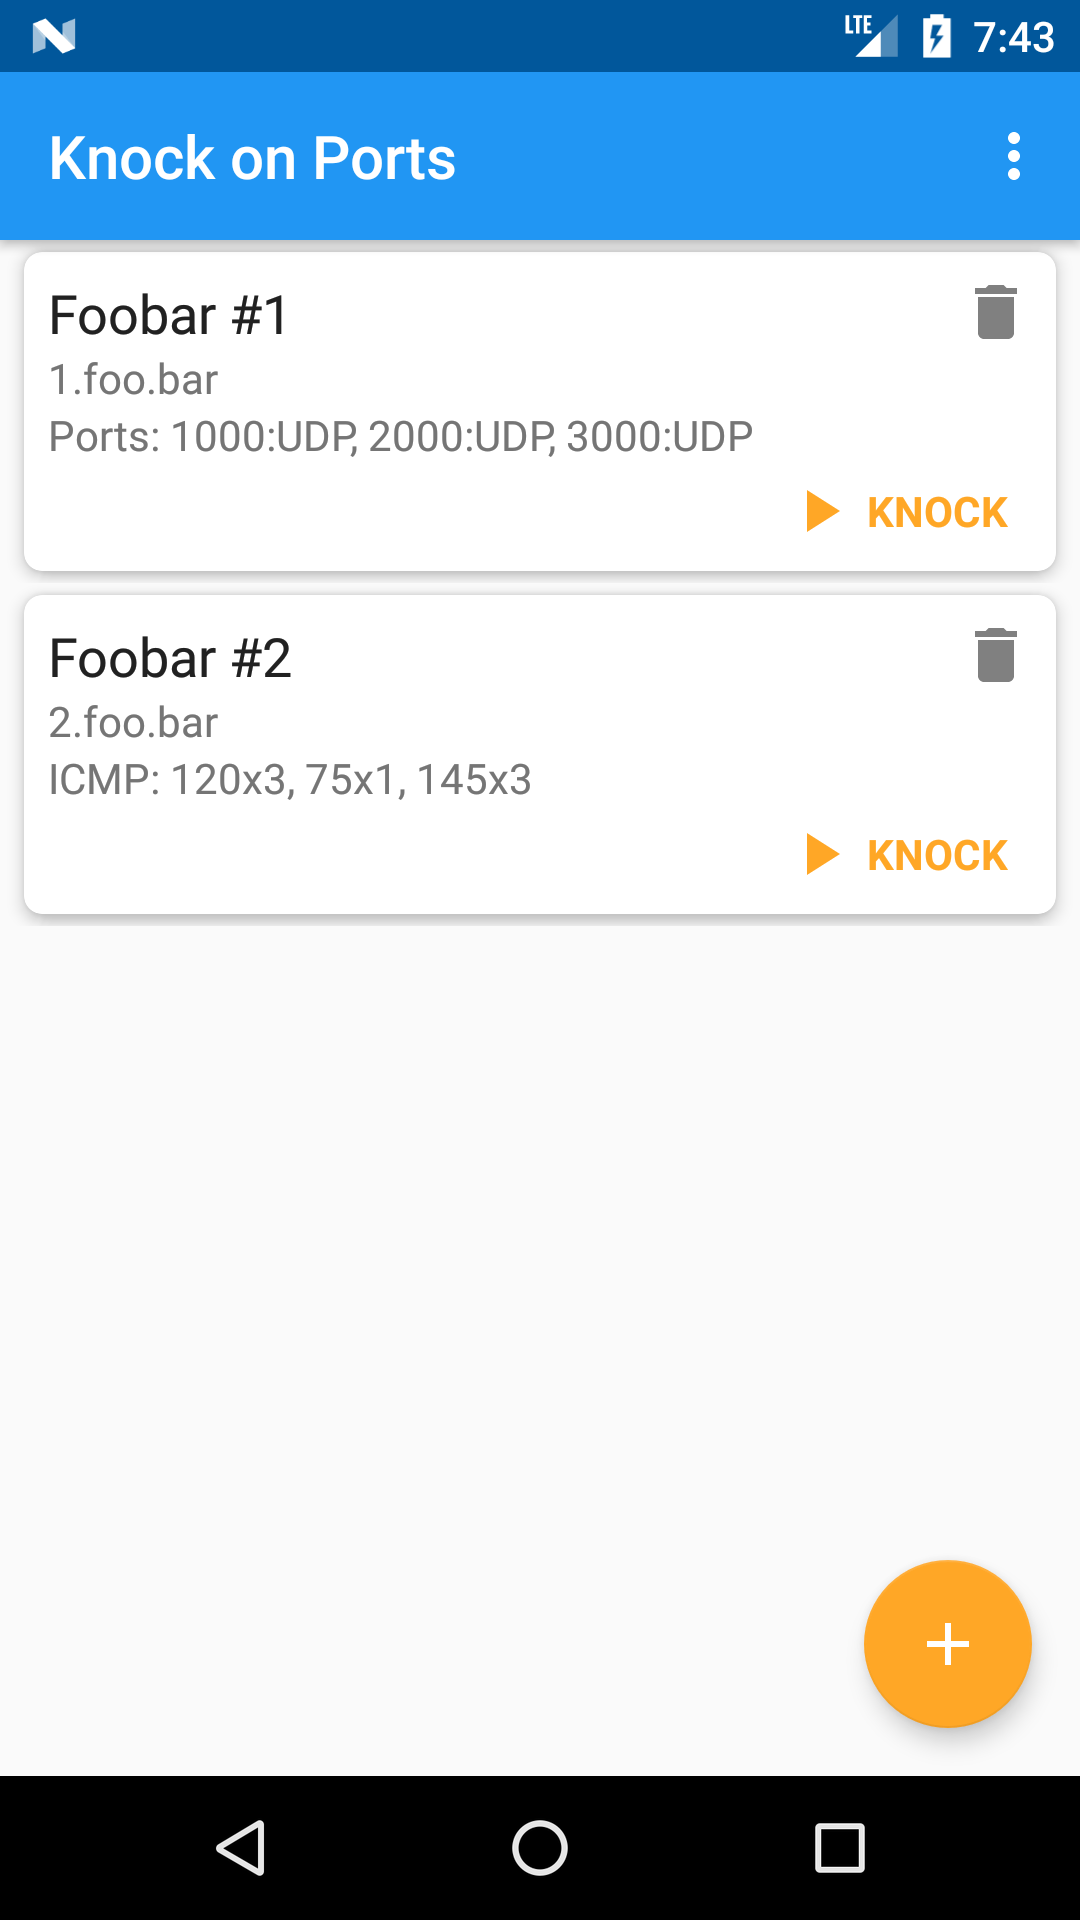
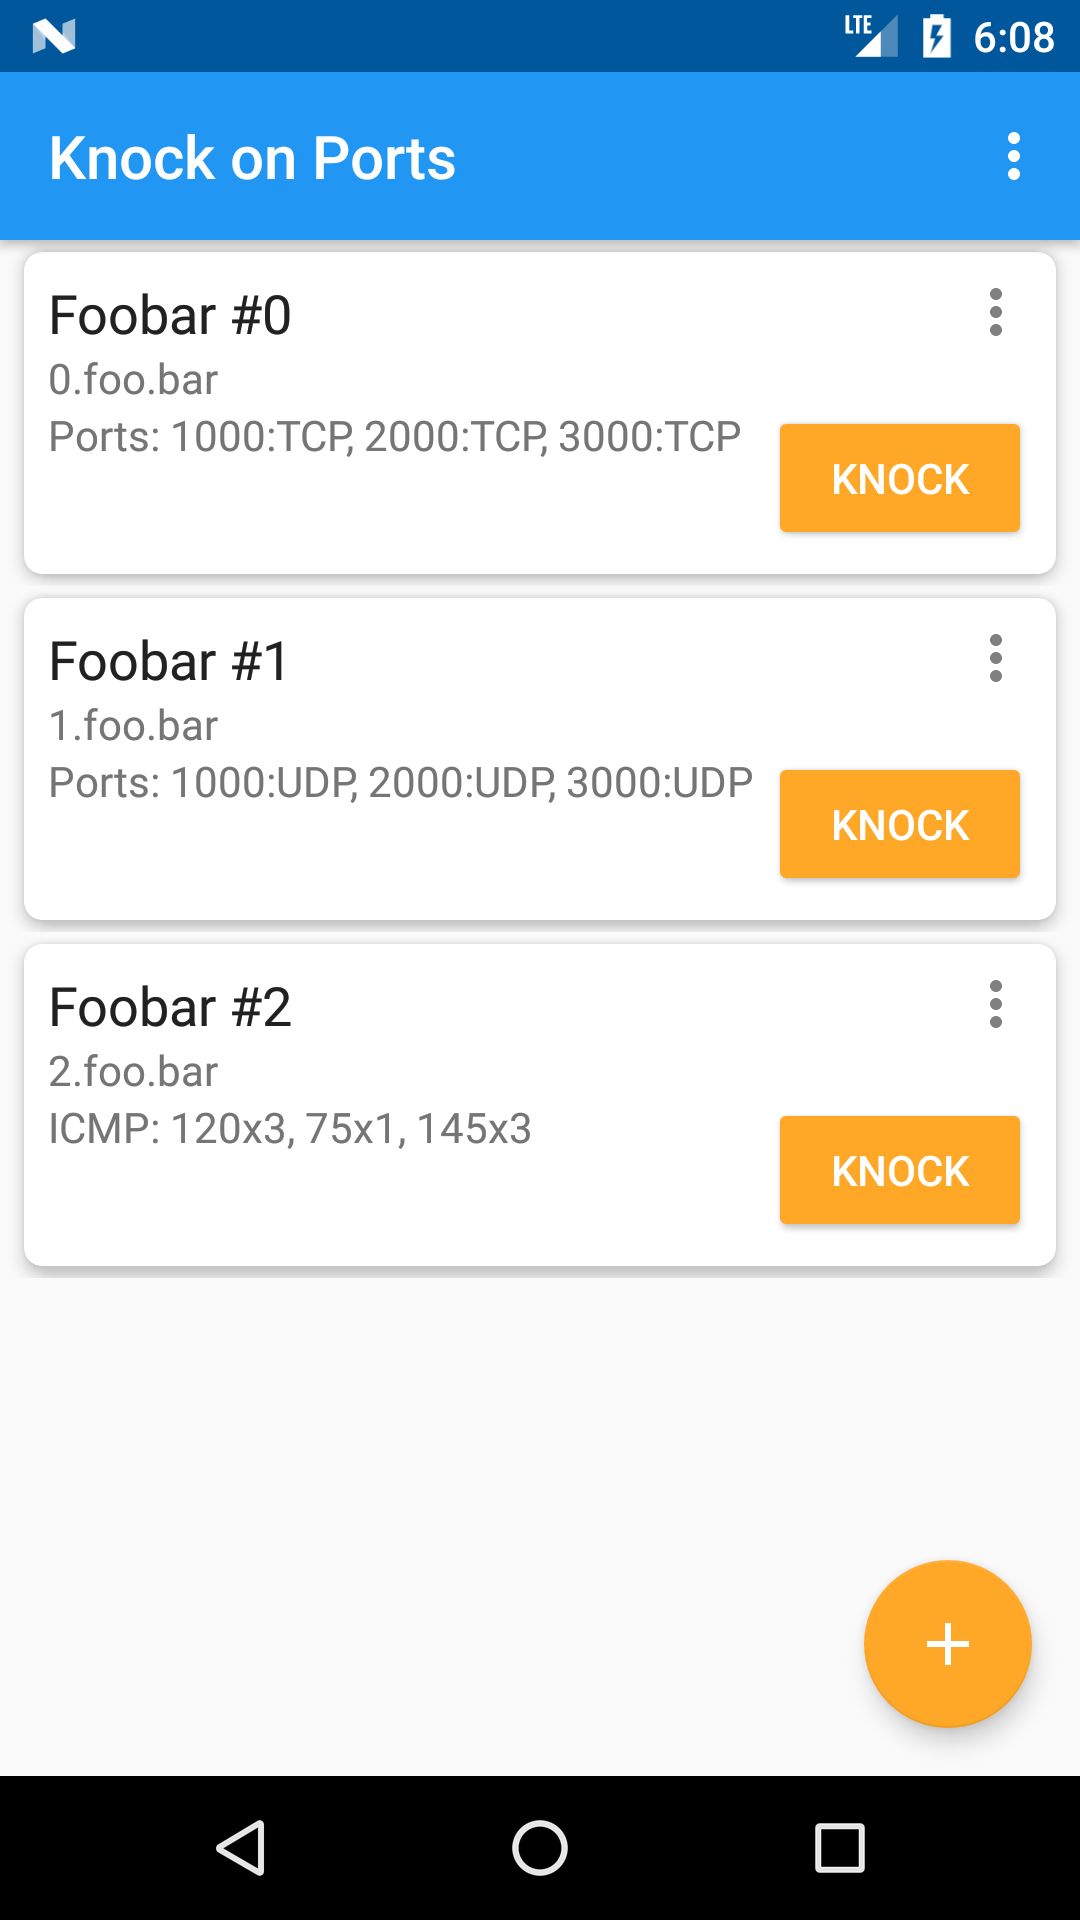
1.0.8

diff --git a/app/src/main/java/me/impa/knockonports/viewadapter/SequenceAdapter.kt b/app/src/main/java/me/impa/knockonports/viewadapter/SequenceAdapter.kt
@@ -25,6 +25,7 @@ import android.content.Context
 import android.view.LayoutInflater
 import android.view.View
 import android.view.ViewGroup
+import android.widget.PopupMenu
 import kotlinx.android.synthetic.main.sequence_element.view.*
 import me.impa.knockonports.R
 import me.impa.knockonports.data.KnockType
@@ -66,10 +67,29 @@ class SequenceAdapter(val context: Context): androidx.recyclerview.widget.Recycl
         } else {
             sequence.name
         }
-        holder.deleteIcon.setOnClickListener {
-            onDelete?.invoke(sequence)
+        holder.moreIcon.setOnClickListener {
+            var popupMenu = PopupMenu(context, holder.moreIcon)
+            popupMenu.inflate(R.menu.menu_sequence)
+            popupMenu.setOnMenuItemClickListener { item ->
+                when(item.itemId) {
+                    R.id.action_menu_knock -> {
+                        onKnock?.invoke(sequence)
+                        true
+                    }
+                    R.id.action_menu_delete -> {
+                        onDelete?.invoke(sequence)
+                        true
+                    }
+                    R.id.action_menu_edit -> {
+                        onClick?.invoke(sequence)
+                        true
+                    }
+                    else -> false
+                }
+            }
+            popupMenu.show()
         }
-        holder.knockWrap.setOnClickListener {
+        holder.knockButton.setOnClickListener {
             onKnock?.invoke(sequence)
         }
         holder.textHost.text = if (sequence.host.isNullOrBlank()) {
@@ -102,10 +122,10 @@ class SequenceAdapter(val context: Context): androidx.recyclerview.widget.Recycl
 
     class ViewHolder(val view: View) : androidx.recyclerview.widget.RecyclerView.ViewHolder(view) {
         val sequenceName = view.sequence_name!!
-        val deleteIcon = view.delete_icon!!
+        val moreIcon = view.more_icon!!
         val textHost = view.text_host!!
         val textPorts = view.text_ports!!
-        val knockWrap = view.knock_wrap!!
+        val knockButton = view.knock_button!!
     }
 
 }

diff --git a/app/src/main/java/me/impa/knockonports/service/Knocker.kt b/app/src/main/java/me/impa/knockonports/service/Knocker.kt
@@ -85,22 +85,10 @@ class Knocker(val context: Context, private val sequence: Sequence): AnkoLogger 
                     udpSocket?.send(DatagramPacket(udpContent, udpContent.size, address, it.value!!))
                 } else {
                     debug { "Knock TCP ${it.value}" }
-                    val socket = Socket()
                     try {
-                        socket.tcpNoDelay = true
-                        socket.keepAlive = false
-                        var timeout = sequence.timeout ?: _defaultTimeout
-                        if (timeout <= 0)
-                            timeout = _defaultTimeout
-                        socket.soTimeout = timeout
-                        socket.setSoLinger(true, 0)
-                        socket.connect(InetSocketAddress(sequence.host, it.value!!), timeout)
-                    } catch (e: SocketTimeoutException) {
-                        // it's ok
+                        sendtcp(address.hostAddress, it.value!!)
                     } catch (e: Exception) {
                         warn("Error while sending TCP knock", e)
-                    } finally {
-                        socket.close()
                     }
                 }
                 val delay = sequence.delay ?: 0
@@ -195,6 +183,7 @@ class Knocker(val context: Context, private val sequence: Sequence): AnkoLogger 
     }
 
     private external fun ping(address: String, size: Int, count: Int, pattern: ByteArray, sleep: Int): Int
+    private external fun sendtcp(host: String, port: Int): Int
 
     companion object {
         init {

diff --git a/app/src/main/cpp/icmputil.cpp b/app/src/main/cpp/icmputil.cpp
@@ -15,6 +15,7 @@
 #include <cstring>
 #include <algorithm>
 #include <unistd.h>
+#include <fcntl.h>
 
 int ping(const char *host, const int size, const int count, jbyte* pattern, jsize pattern_len, const int sleep) {
 
@@ -24,7 +25,7 @@ int ping(const char *host, const int size, const int count, jbyte* pattern, jsiz
     if (packet_size < sizeof(icmp_header))
         packet_size = sizeof(icmp_header);
 
-    __android_log_print(ANDROID_LOG_INFO, "ICMP", "host %s", host);
+    __android_log_print(ANDROID_LOG_INFO, "ICMP", "hitting %s", host);
 
     char packet_data[packet_size];
 
@@ -86,6 +87,38 @@ int ping(const char *host, const int size, const int count, jbyte* pattern, jsiz
     return EXIT_SUCCESS;
 }
 
+int send_tcp_packet(const char *host, const int port) {
+    struct sockaddr_in addr;
+    int flags;
+
+    __android_log_print(ANDROID_LOG_INFO, "TCP", "hitting %s:%d", host, port);
+
+    memset(&addr, 0, sizeof(addr));
+
+    addr.sin_family = AF_INET;
+    addr.sin_port = htons(port);
+
+    if (inet_pton(AF_INET, host, &(addr.sin_addr)) < 0) {
+        __android_log_print(ANDROID_LOG_ERROR, "TCP", "inet_pton errono %d %s\n", errno,
+                            strerror(errno));
+        return EXIT_FAILURE;
+    }
+
+    int sock = socket(PF_INET, SOCK_STREAM, 0);
+    if (sock < 0) {
+        __android_log_print(ANDROID_LOG_ERROR, "TCP", "socket errorno %d %s\n", errno,
+                            strerror(errno));
+        return EXIT_FAILURE;
+    }
+    flags = fcntl(sock, F_GETFL, 0);
+    fcntl(sock, F_SETFL, flags | O_NONBLOCK);
+
+    connect(sock, (struct sockaddr*)&addr, sizeof(struct sockaddr));
+    close(sock);
+
+    return EXIT_SUCCESS;
+}
+
 jint Java_me_impa_knockonports_service_Knocker_ping(JNIEnv *env, jobject thiz, jstring address, jint size, jint count, jbyteArray pattern, jint sleep) {
     const char *n_address = env->GetStringUTFChars(address, 0);
 
@@ -96,6 +129,16 @@ jint Java_me_impa_knockonports_service_Knocker_ping(JNIEnv *env, jobject thiz, j
 
     (*env).ReleaseStringUTFChars(address, n_address);
     (*env).ReleaseByteArrayElements(pattern, n_pattern, JNI_ABORT);
+
+    return result;
+}
+
+jint Java_me_impa_knockonports_service_Knocker_sendtcp(JNIEnv *env, jobject thiz, jstring host, jint port) {
+    const char *n_host = env->GetStringUTFChars(host, 0);
+
+    int result = send_tcp_packet(n_host, port);
+
+    (*env).ReleaseStringUTFChars(host, n_host);
 
     return result;
 }

diff --git a/app/src/main/cpp/icmputil.h b/app/src/main/cpp/icmputil.h
@@ -11,4 +11,8 @@ extern "C"
 JNIEXPORT jint JNICALL Java_me_impa_knockonports_service_Knocker_ping(
         JNIEnv *, jobject, jstring, jint, jint, jbyteArray, jint);
 
+extern "C"
+JNIEXPORT jint JNICALL Java_me_impa_knockonports_service_Knocker_sendtcp(
+        JNIEnv *, jobject, jstring, jint);
+
 #endif //KNOCKONPORTS_ICMPUTIL_H
